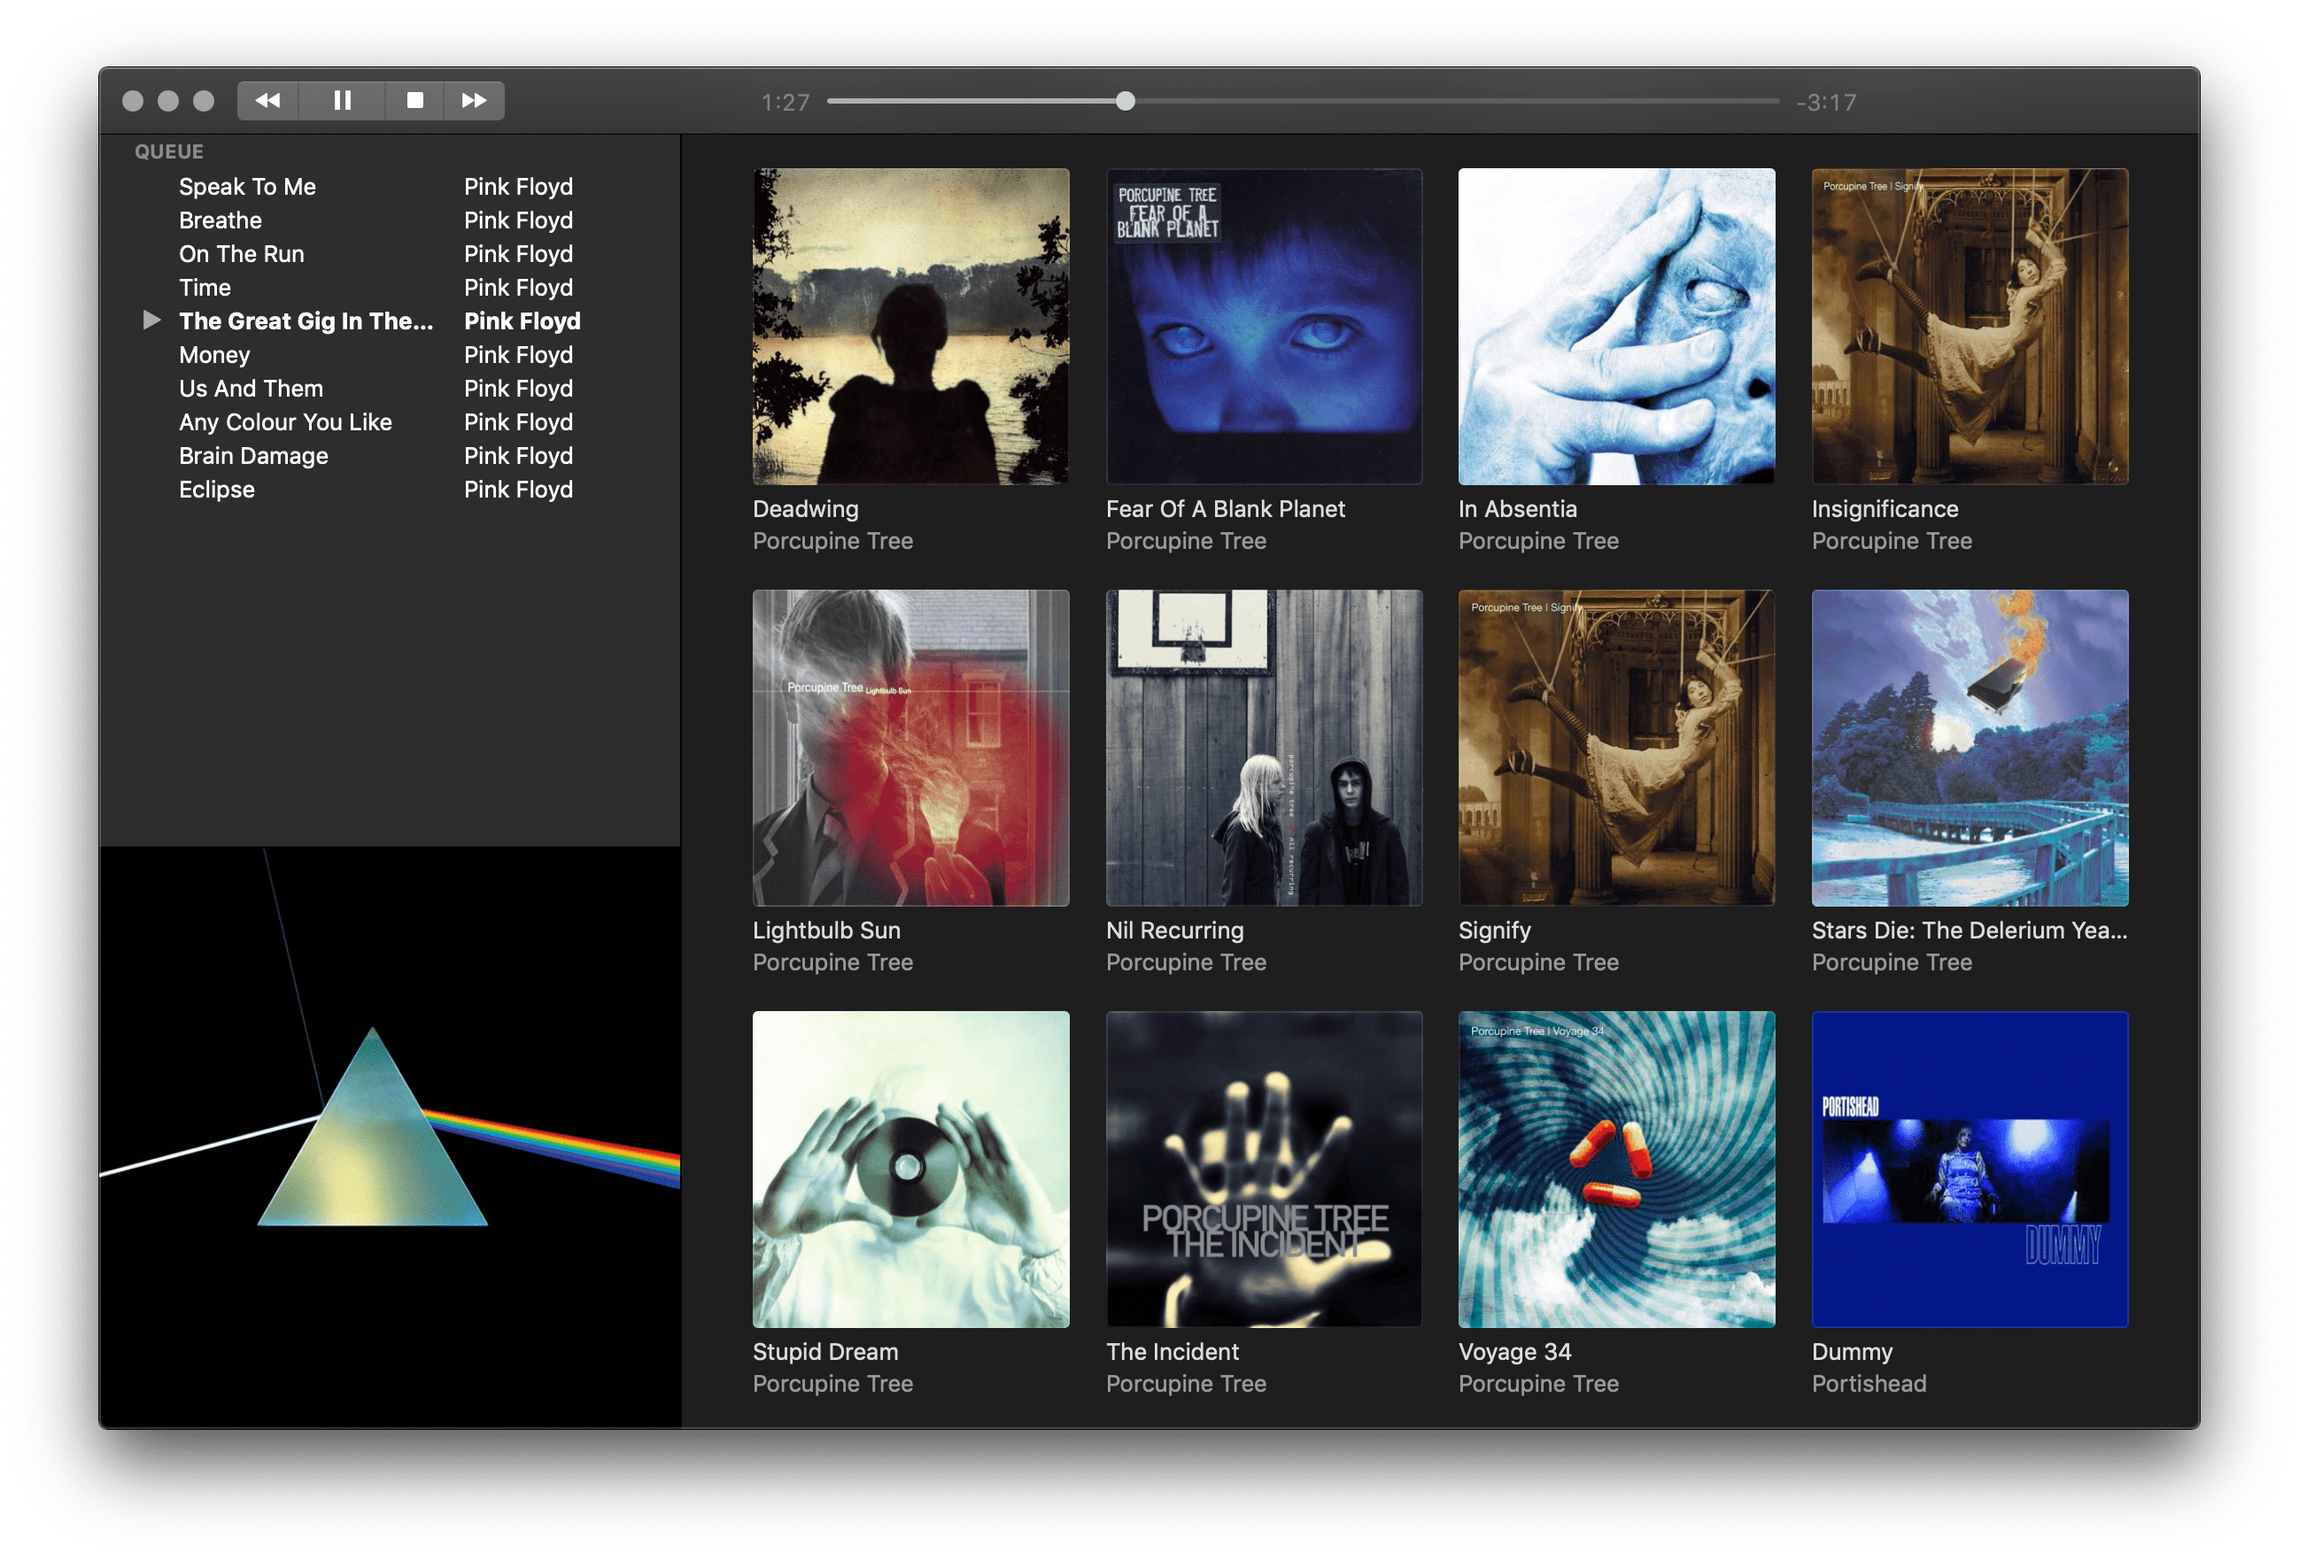
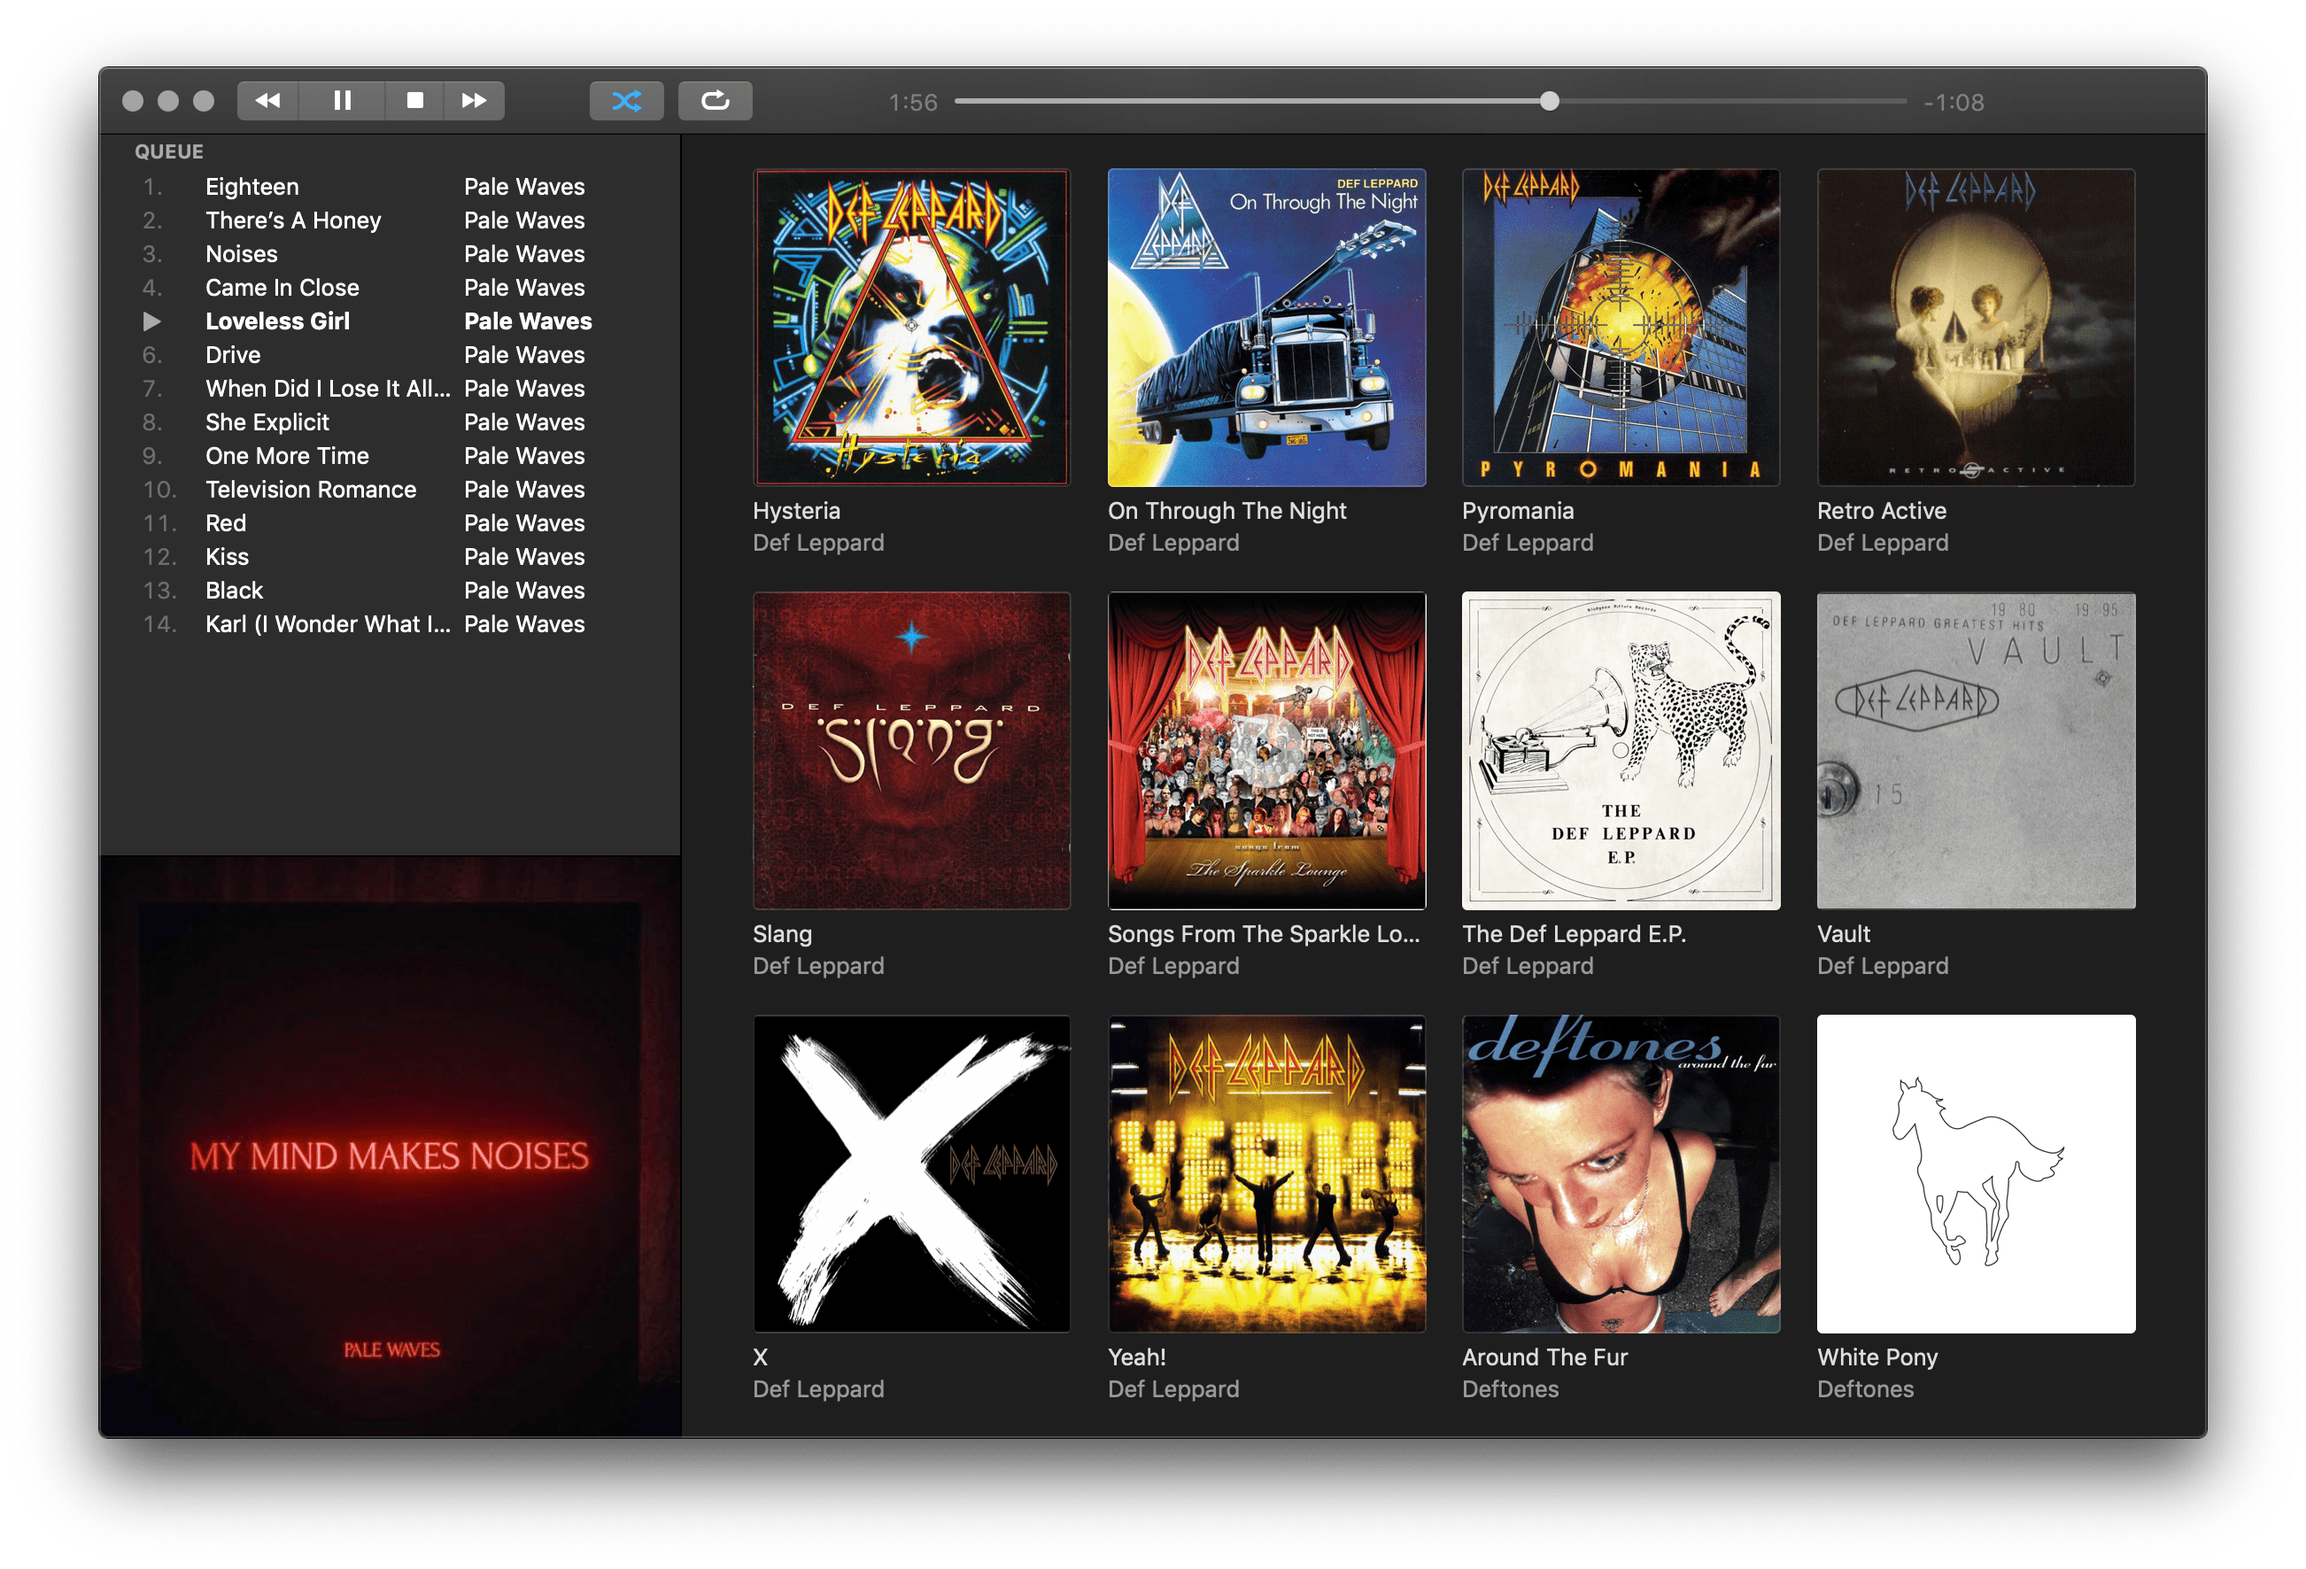
Prep for 0.12.0-alpha release

diff --git a/CHANGELOG.md b/CHANGELOG.md
@@ -1,5 +1,17 @@
 # Changelog
 
+## 0.12.0-alpha - 2019-05-18
+
+### Added
+
+- Now Playing information and transport controls in the dock menu
+- Queue position numbers in the queue
+- Shuffle/repeat mode buttons
+
+### Changed
+
+- BIG refactor using unidirectional dataflow
+
 ## 0.11.2-alpha - 2019-04-09
 
 ### Changed
